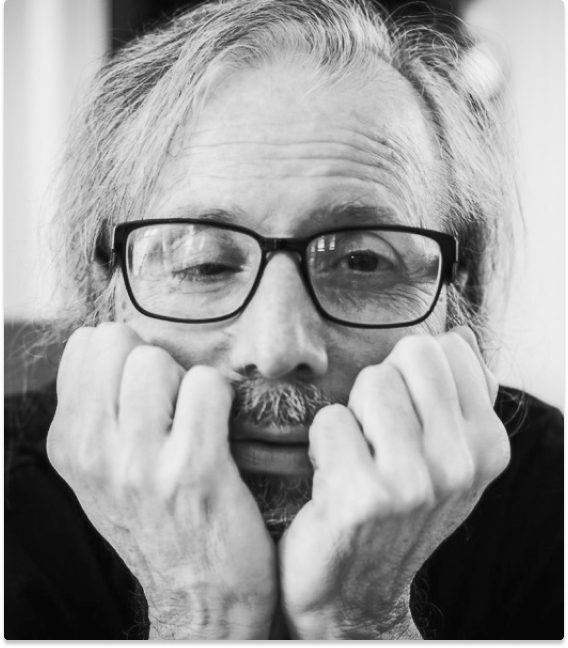
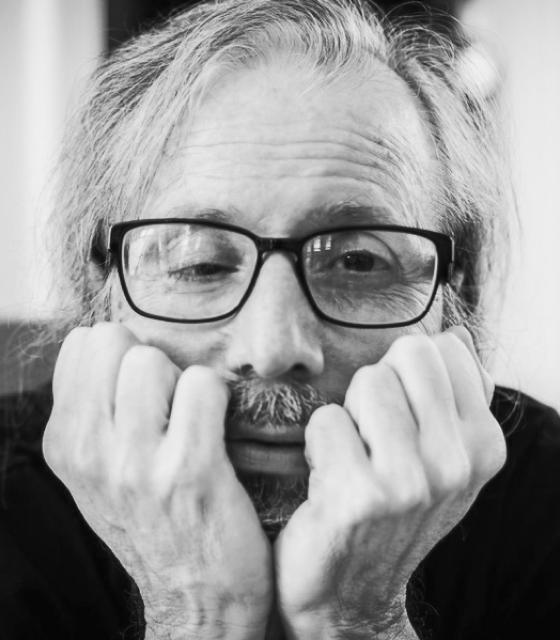
albuns-depoimentos-e-poesia

diff --git a/index.html b/index.html
@@ -23,8 +23,8 @@
       <div class="main-img"> <img src="assets/gerais/rogerio1.jpg" alt="Rogerio Skylab foto 3 por 4" width="460" height="588"></div>
       <div class="main-content">
         <h1 class="font-1-xxl c0">MAIS DE 28 ANOS NA CARREIRA MUSICAL.</h1>
-        <p class="font-2-m c5">Rogério Tolomei Teixeira, mais conhecido por seu nome artístico Rogério Skylab, é um cantor, compositor, violonista, letrista, poeta, ensaísta, colunista, ator, músico, ex-apresentador de televisão, ex-bancário e produtor de discos brasileiro.</p>
-    <a class="botao" href="#" >Entre em Contato</a>
+        <p class="font-2-r c5">Rogério Tolomei Teixeira, mais conhecido por seu nome artístico Rogério Skylab, é um cantor, compositor, violonista, letrista, poeta, ensaísta, colunista, ator, músico, ex-apresentador de televisão, ex-bancário e produtor de discos brasileiro.</p>
+    <a class="botao-branco" href="#" >Entre em Contato</a>
       </div>
     </div>
     <img class="setaBaixo" src="assets/icones/setaBaixo.svg" alt="">
@@ -32,38 +32,65 @@
 
   <section class="titulo-avulso">
     <h1 class="font-1-xxl c0">ROGERIO SKYLAB,</h1>
-    <p class="font-1-xl-i c4">O HOMEM QUE RESIGNIFICOU A MÍDIA AUDIO/VISUAL BRASILEIRA.</p>
+    <p class="font-1-xl-i c4">O HOMEM QUE RESSIGNIFICOU A <br> MÍDIA AUDIO/VISUAL BRASILEIRA.</p>
   </section>
 
+    <section>
       <nav class="albuns" aria-label="Albuns do Rogerio Skylab">
-        <li>
-          <img src="assets/albuns/skylab.jpg" alt="">
-          <p class="font-2-l-i c2">"Skylab"</p>
-        </li>
-        <li>
-          <img src="assets/albuns/skylab-v.jpg" alt="">
-          <p class="font-2-l-i c2">"Skylab V"</p>
-        </li>
-        <li>
-          <img src="assets/albuns/caos-e-cosmos-1.jpg" alt="">
-          <p class="font-2-l-i c2">"Caos e Cosmo 1"</p>
-        </li>
-        <li>
-          <img src="assets/albuns/caos-e-cosmos-2.jpg" alt="">
-          <p class="font-2-l-i c2">"Caos e Cosmo 2"</p>
-        </li>
-        <li>
-          <img src="assets/albuns/caos-e-cosmos-2.jpg" alt="">
-          <p class="font-2-l-i c2">"Caos e Cosmo 2"</p>
-        </li>
-        <li>
-          <img src="assets/albuns/caos-e-cosmos-2.jpg" alt="">
-          <p class="font-2-l-i c2">"Caos e Cosmo 2"</p>
-        </li>
-        <li>
-          <img src="assets/albuns/caos-e-cosmos-2.jpg" alt="">
-          <p class="font-2-l-i c2">"Caos e Cosmo 2"</p>
-        </li>
+          <li>
+            <img src="assets/albuns/skylab.jpg"  alt="Album Skylab">
+            <p class="font-2-l-i c2">"Skylab"</p>
+          </li>
+          <li>
+            <img src="assets/albuns/skylab-v.jpg"   alt="Album Skylab V">
+            <p class="font-2-l-i c2">"Skylab V"</p>
+          </li>
+          <li>
+            <img src="assets/albuns/caos-e-cosmos-1.jpg"   alt="Album Caos e Cosmo 1">
+            <p class="font-2-l-i c2">"Caos e Cosmo 1"</p>
+          </li>
+          <li>
+            <img src="assets/albuns/caos-e-cosmos-2.jpg"   alt="Album Caos e Cosmo 2">
+            <p class="font-2-l-i c2">"Caos e Cosmo 2"</p>
+          </li>
+          <li>
+            <img src="assets/albuns/caos-e-cosmos-2.jpg"   alt="">
+            <p class="font-2-l-i c2">"Caos e Cosmo 2"</p>
+          </li>
+          <li>
+            <img src="assets/albuns/caos-e-cosmos-2.jpg"   alt="">
+            <p class="font-2-l-i c2">"Caos e Cosmo 2"</p>
+          </li>
+          <li>
+            <img src="assets/albuns/caos-e-cosmos-2.jpg"  alt="">
+            <p class="font-2-l-i c2">"Caos e Cosmo 2"</p>
+          </li>
       </nav>
+    </section>
+
+    <section class="depoimento-bg">
+      <div class="depoimento container">
+        <div class="depoimento-content">
+          <h1 class="font-1-xxl c10">DO BANCO AO ROCK.</h1>
+          <p class="font-2-r c6">“Eu vivo uma vida muito confortável. Não dependo do meu trabalho [com a música] para viver, trabalhei no Banco do Brasil durante 28 anos”.</p>
+          <p class="font-2-r c6">“Eu era um funcionário medíocre, trabalhava seis horinhas e ‘pernas pra que te quero’ para fazer minhas coisas. Minha vida toda foi assim. Tenho muita gratidão ao Banco, se não fosse isso, não teria produzido minha discografia”</p>
+          <a class="botao-preto" href="#">Conheça mais</a>
+        </div>
+        <div class="depoimento-img">
+          <img src="./assets/gerais/rogerio2.jpg" width="560" height="640" alt="Rogerio ">
+        </div>
+      </div>
+    </section>
+
+    <section class="poesia-bg">
+      <div class="poesia">
+        <blockquote class="poesia-content">
+          <p class="font-2-l-i c0">“É impressionante a concentração de quem chupa, mesmo diante de uma câmera pornográfica. A sua concentração é a mesma de um poeta em busca da palavra. Não importa se o objeto é um grelo, um cu, um pau, uma língua, um peito... o que chama a atenção é a sua devoção, a sua paciência. Diante de um chupador contumaz não existe o tempo, o nojinho, nem a consideração de uma possível contaminação - o HPV não o segura. Um jogador joga; um professor ensina; um chupador chupa.” <span class="c4"> ~ Rogerio Skylab</span></p>
+        </blockquote>
+        <div class="poesia-img">
+          <img src="assets/gerais/rogerio3.jpg" alt="Rogerio">
+        </div>
+      </div>
+    </section>
 </body>
 </html>

diff --git a/css/utilities.css b/css/utilities.css
@@ -1,10 +1,10 @@
-.botao {
+.botao-branco{
   display: inline-block;
   max-width: max-content;
   border-radius: 4px;
   padding: 10px 20px;
   color: var(--c10);
-  background: linear-gradient(360deg, var(--c2), transparent) var(--c3);
+  background: linear-gradient(360deg, var(--c3), transparent) var(--c1);
   transition: .4s;
   font: 500 2rem/1.2 'Lato', sans-serif;
   text-transform: uppercase;
@@ -12,14 +12,35 @@
   cursor: pointer;
 }
 
-.botao:hover {
-  background-color: var(--c1);
-  scale: 1.04;
+.botao-preto {
+  display: inline-block;
+  max-width: max-content;
+  border-radius: 4px;
+  padding: 10px 20px;
+  color: var(--c0);
+  background: linear-gradient(360deg, var(--c10), transparent) var(--c9);
+  transition: .4s;
+  font: 500 2rem/1.2 'Lato', sans-serif;
+  text-transform: uppercase;
+  border: none;
+  cursor: pointer;
+  box-shadow: 0px 4px 4px -1px rgba(0,0,0,0.15);
 
 }
 
+.botao-branco:hover {
+  background-color: var(--c0);
+  scale: 1.04;
+}
+
+.botao-preto:hover {
+  background-color: var(--c8);
+  scale: 1.04;
+}
+
 @media (max-width: 400px) {
-.botao {
+.botao-branco,
+.botao-preto {
   font: 500 1.5rem/1.2 'Lato', sans-serif;
 
   }

diff --git a/css/depoimento.css b/css/depoimento.css
@@ -1,0 +1,54 @@
+.depoimento-bg {
+  background: var(--c0);
+  padding-top: 60px;
+}
+
+.depoimento {
+  display: grid;
+  grid-template-columns: 1fr 1fr;
+  padding-bottom: 120px;
+}
+
+.depoimento h1{
+  margin-bottom: 32px;  
+}
+
+.depoimento p {
+  margin-bottom: 20px;
+}
+
+.depoimento-content {
+  grid-column: 1;
+  padding: 60px;
+  border-radius: 4px 0 0 4px;
+  box-shadow: 0px 4px 4px 0px rgba(0,0,0,0.15);
+}
+
+.depoimento-img img{
+  box-shadow: 0px 4px 4px 0px rgba(0,0,0,0.25);
+  border-radius: 0 4px 4px 0;
+}
+
+@media (max-width: 1000px) {
+  .depoimento {
+    grid-template-columns: 1fr;
+  }
+
+  .depoimento-content {
+    grid-column: 1;
+    display: grid;
+    justify-items: center;
+    padding-bottom: 20px;
+    text-align: center;
+  }
+
+  .depoimento-img {
+    grid-column: 1;
+  }
+
+  .depoimento-img img{
+    box-shadow: 0px 4px 4px 0px rgba(0,0,0,0.0);
+    border-radius: 0px;
+    object-fit: cover;
+  }
+}

diff --git a/css/poesia.css b/css/poesia.css
@@ -1,0 +1,57 @@
+.poesia-bg {
+  background: var(--c9);
+  padding-top: 60px;
+  padding-bottom: 120px;
+}
+
+.poesia {
+  display: grid;
+  grid-template-columns:1fr auto ;
+}
+
+.poesia-content {
+  grid-column: 1;
+  display: flex;
+  padding: 60px 120px;
+}
+
+.poesia-content p {
+  line-height: 1.5;
+  position: relative;
+}
+
+.poesia-content p span{
+    font: 500 1.5rem/1.5 'Lato', sans-serif;
+    font-style: italic;
+    position: absolute;
+    right: -30px;
+    bottom: 10px;
+}
+
+.poesia-img {
+  grid-column: 2;
+}
+
+@media (max-width: 1000px) {
+  .poesia {
+    grid-template-columns: 1fr;
+  }
+
+  .poesia-content,
+  .poesia-img {
+    grid-column: 1;
+  }
+
+  .poesia-content {
+  padding: 20px 40px;
+
+  }
+
+  .poesia-content p span{
+    font: 500 0.85rem/1.5 'Lato', sans-serif;
+    font-style: italic;
+    position: absolute;
+    right: -30px;
+    bottom: 5px;
+}
+}

diff --git a/css/albuns.css b/css/albuns.css
@@ -20,6 +20,7 @@
   gap: 60px;  
   max-width: 1400px;
   margin-top: 120px;
+  margin-bottom: 120px;
   margin-left: auto;
   margin-right: auto;
   overflow-x: auto;
@@ -29,6 +30,23 @@
 .albuns li {
   min-width:360px;
   display: block;
+}
+
+.albuns li {
+
+  overflow: hidden;
+}
+
+.albuns li img {
+	transition: .4s;
+}
+
+.albuns li p {
+  display: block;
+}
+
+.albuns li:hover  img {
+transform: scale(1.04);
 }
 
 @media (max-width: 500px) {

diff --git a/css/global.css b/css/global.css
@@ -89,8 +89,9 @@
 }
 
 .font-1-xl-i {
-  font: 500 4rem/1.2 'Playfair Display', serif;
+  font: 500 3rem/1.2 'Playfair Display', serif;
   font-style: italic;
+  text-align: center;
 }
 
 .font-2-l {
@@ -116,7 +117,7 @@ html {
   font-size: 16px;
 }
 
-body, h1, h2, h3, h4, h5, h6, p, ol, ul {
+body, h1, h2, h3, h4, h5, h6, p, ol, ul,blockquote {
   margin: 0;
   padding: 0;
 }

diff --git a/css/style.css b/css/style.css
@@ -3,3 +3,5 @@
 @import url("./main.css");
 @import url("./utilities.css");
 @import url("./albuns.css");
+@import url("./depoimento.css");
+@import url("./poesia.css");

diff --git a/css/main.css b/css/main.css
@@ -11,6 +11,7 @@
 
 .main-content {
   grid-column: 2;
+  padding: 20px;
 }
 
 .main p {
